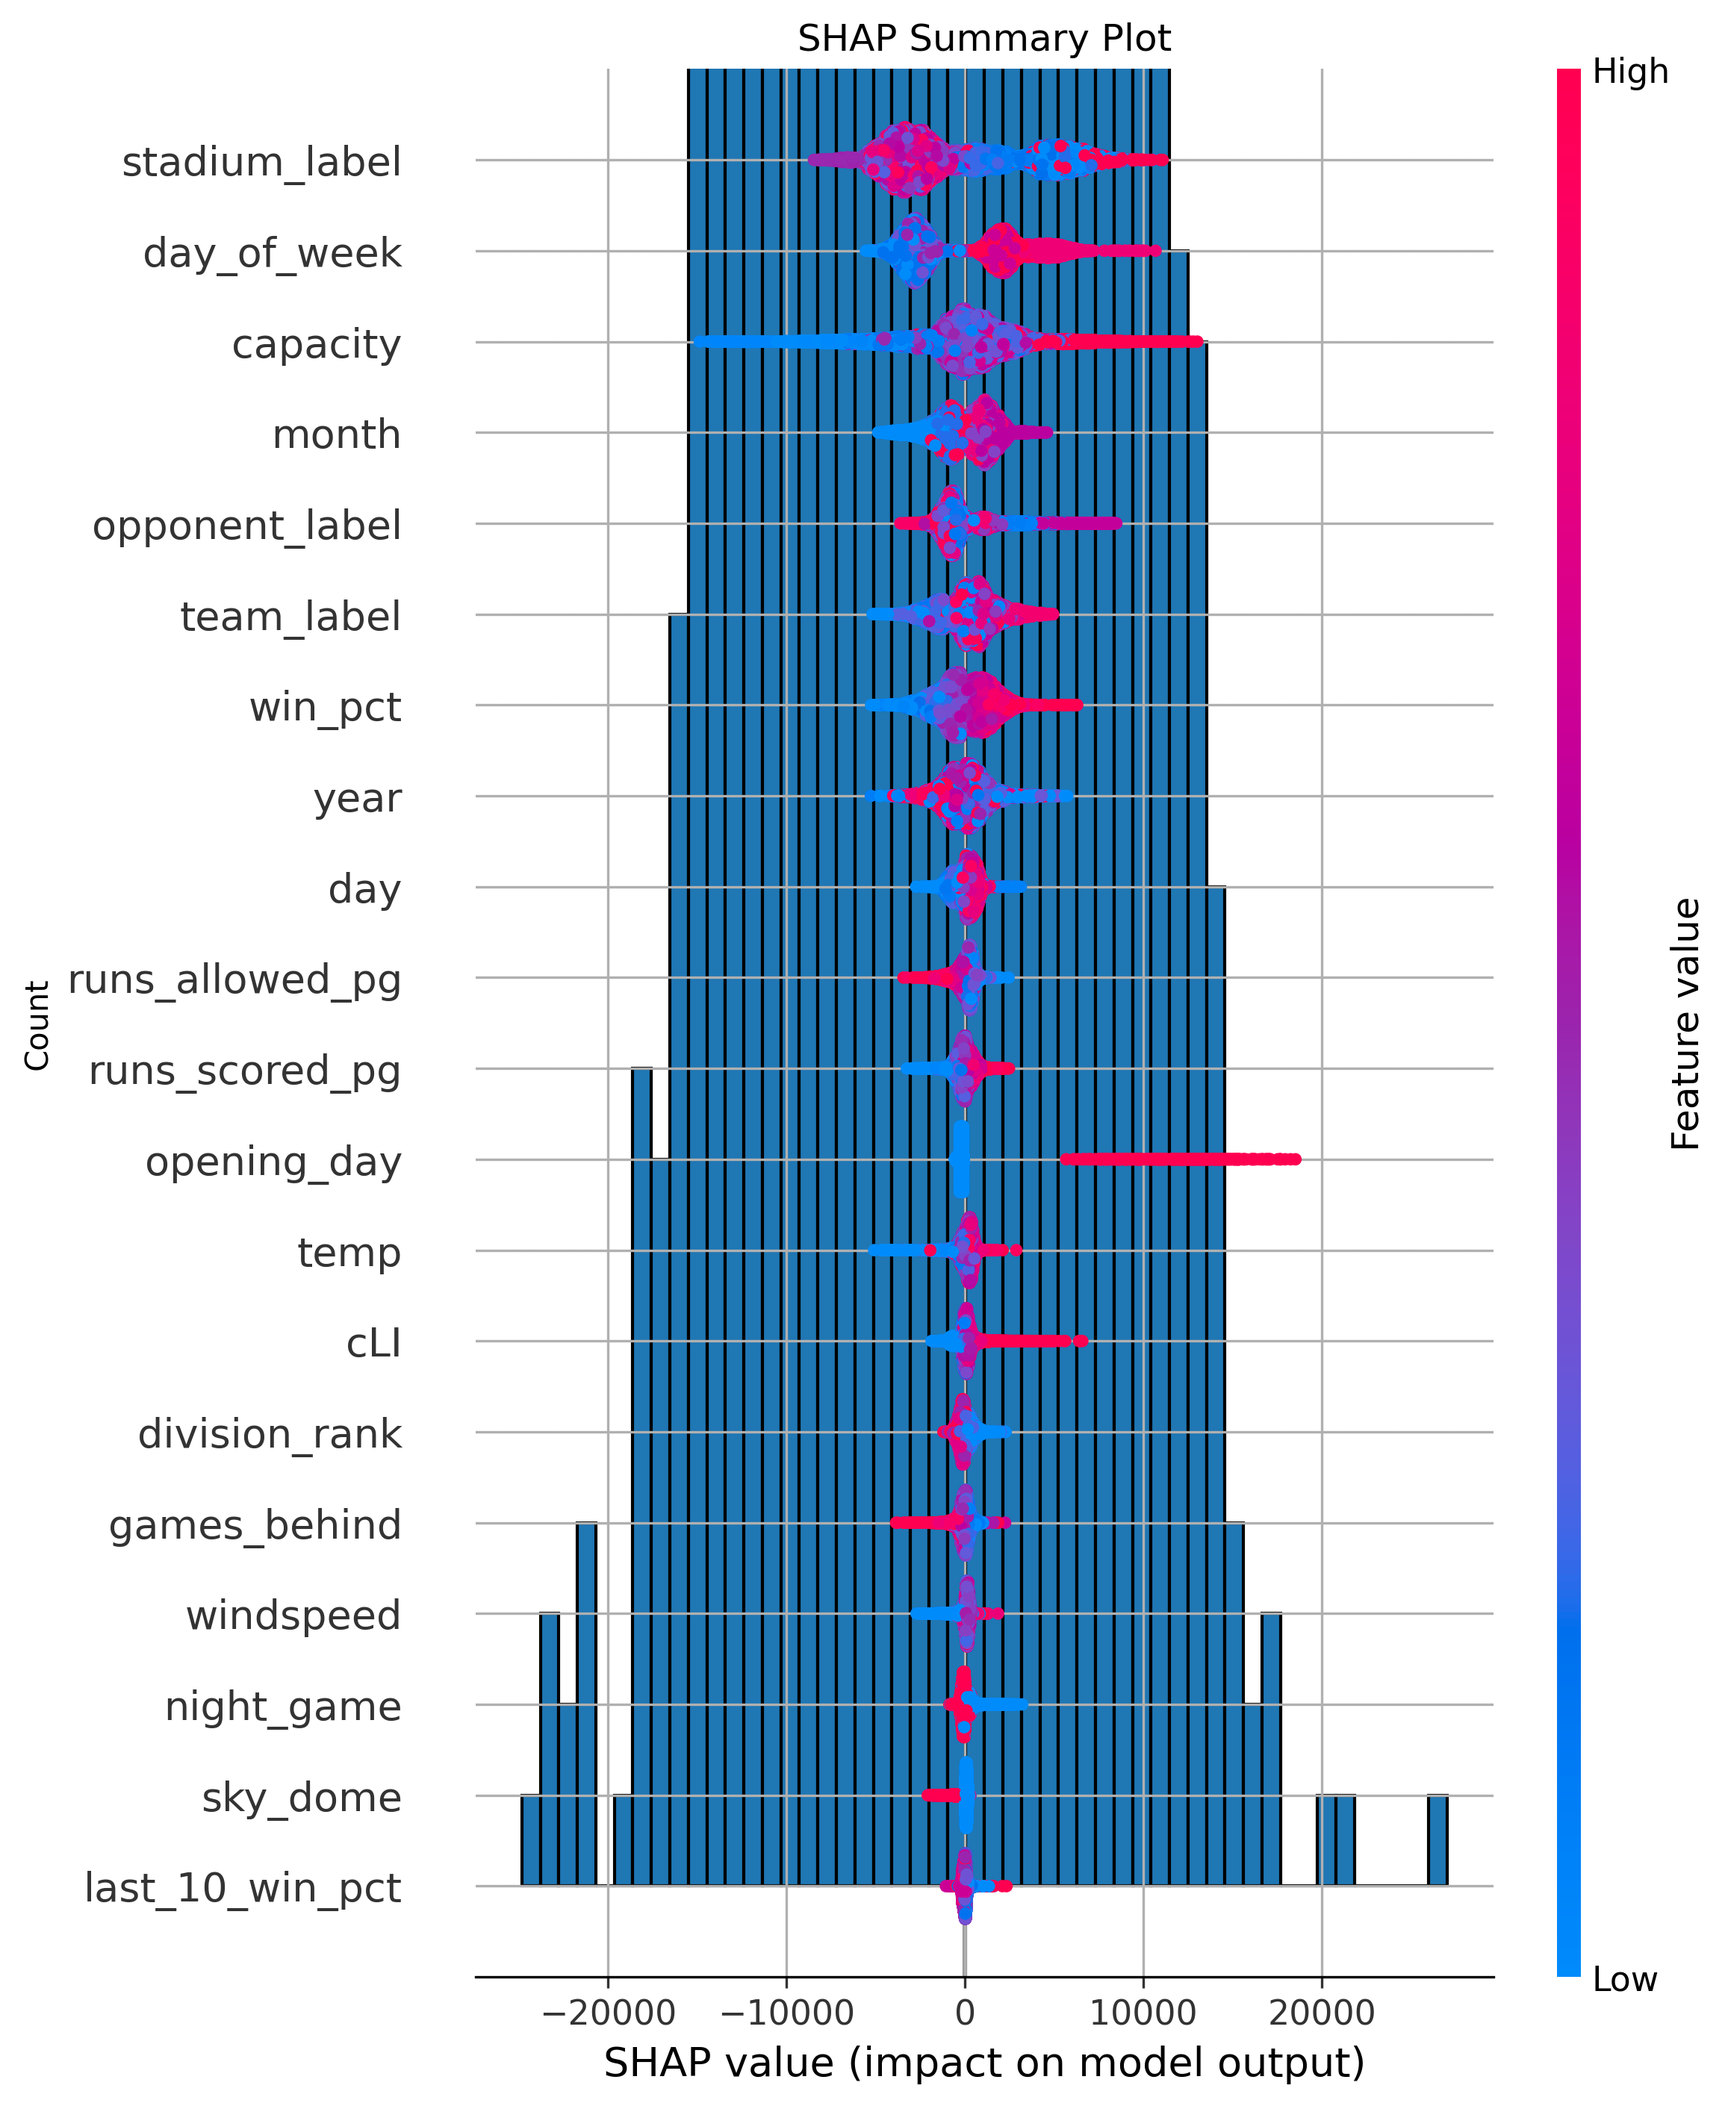
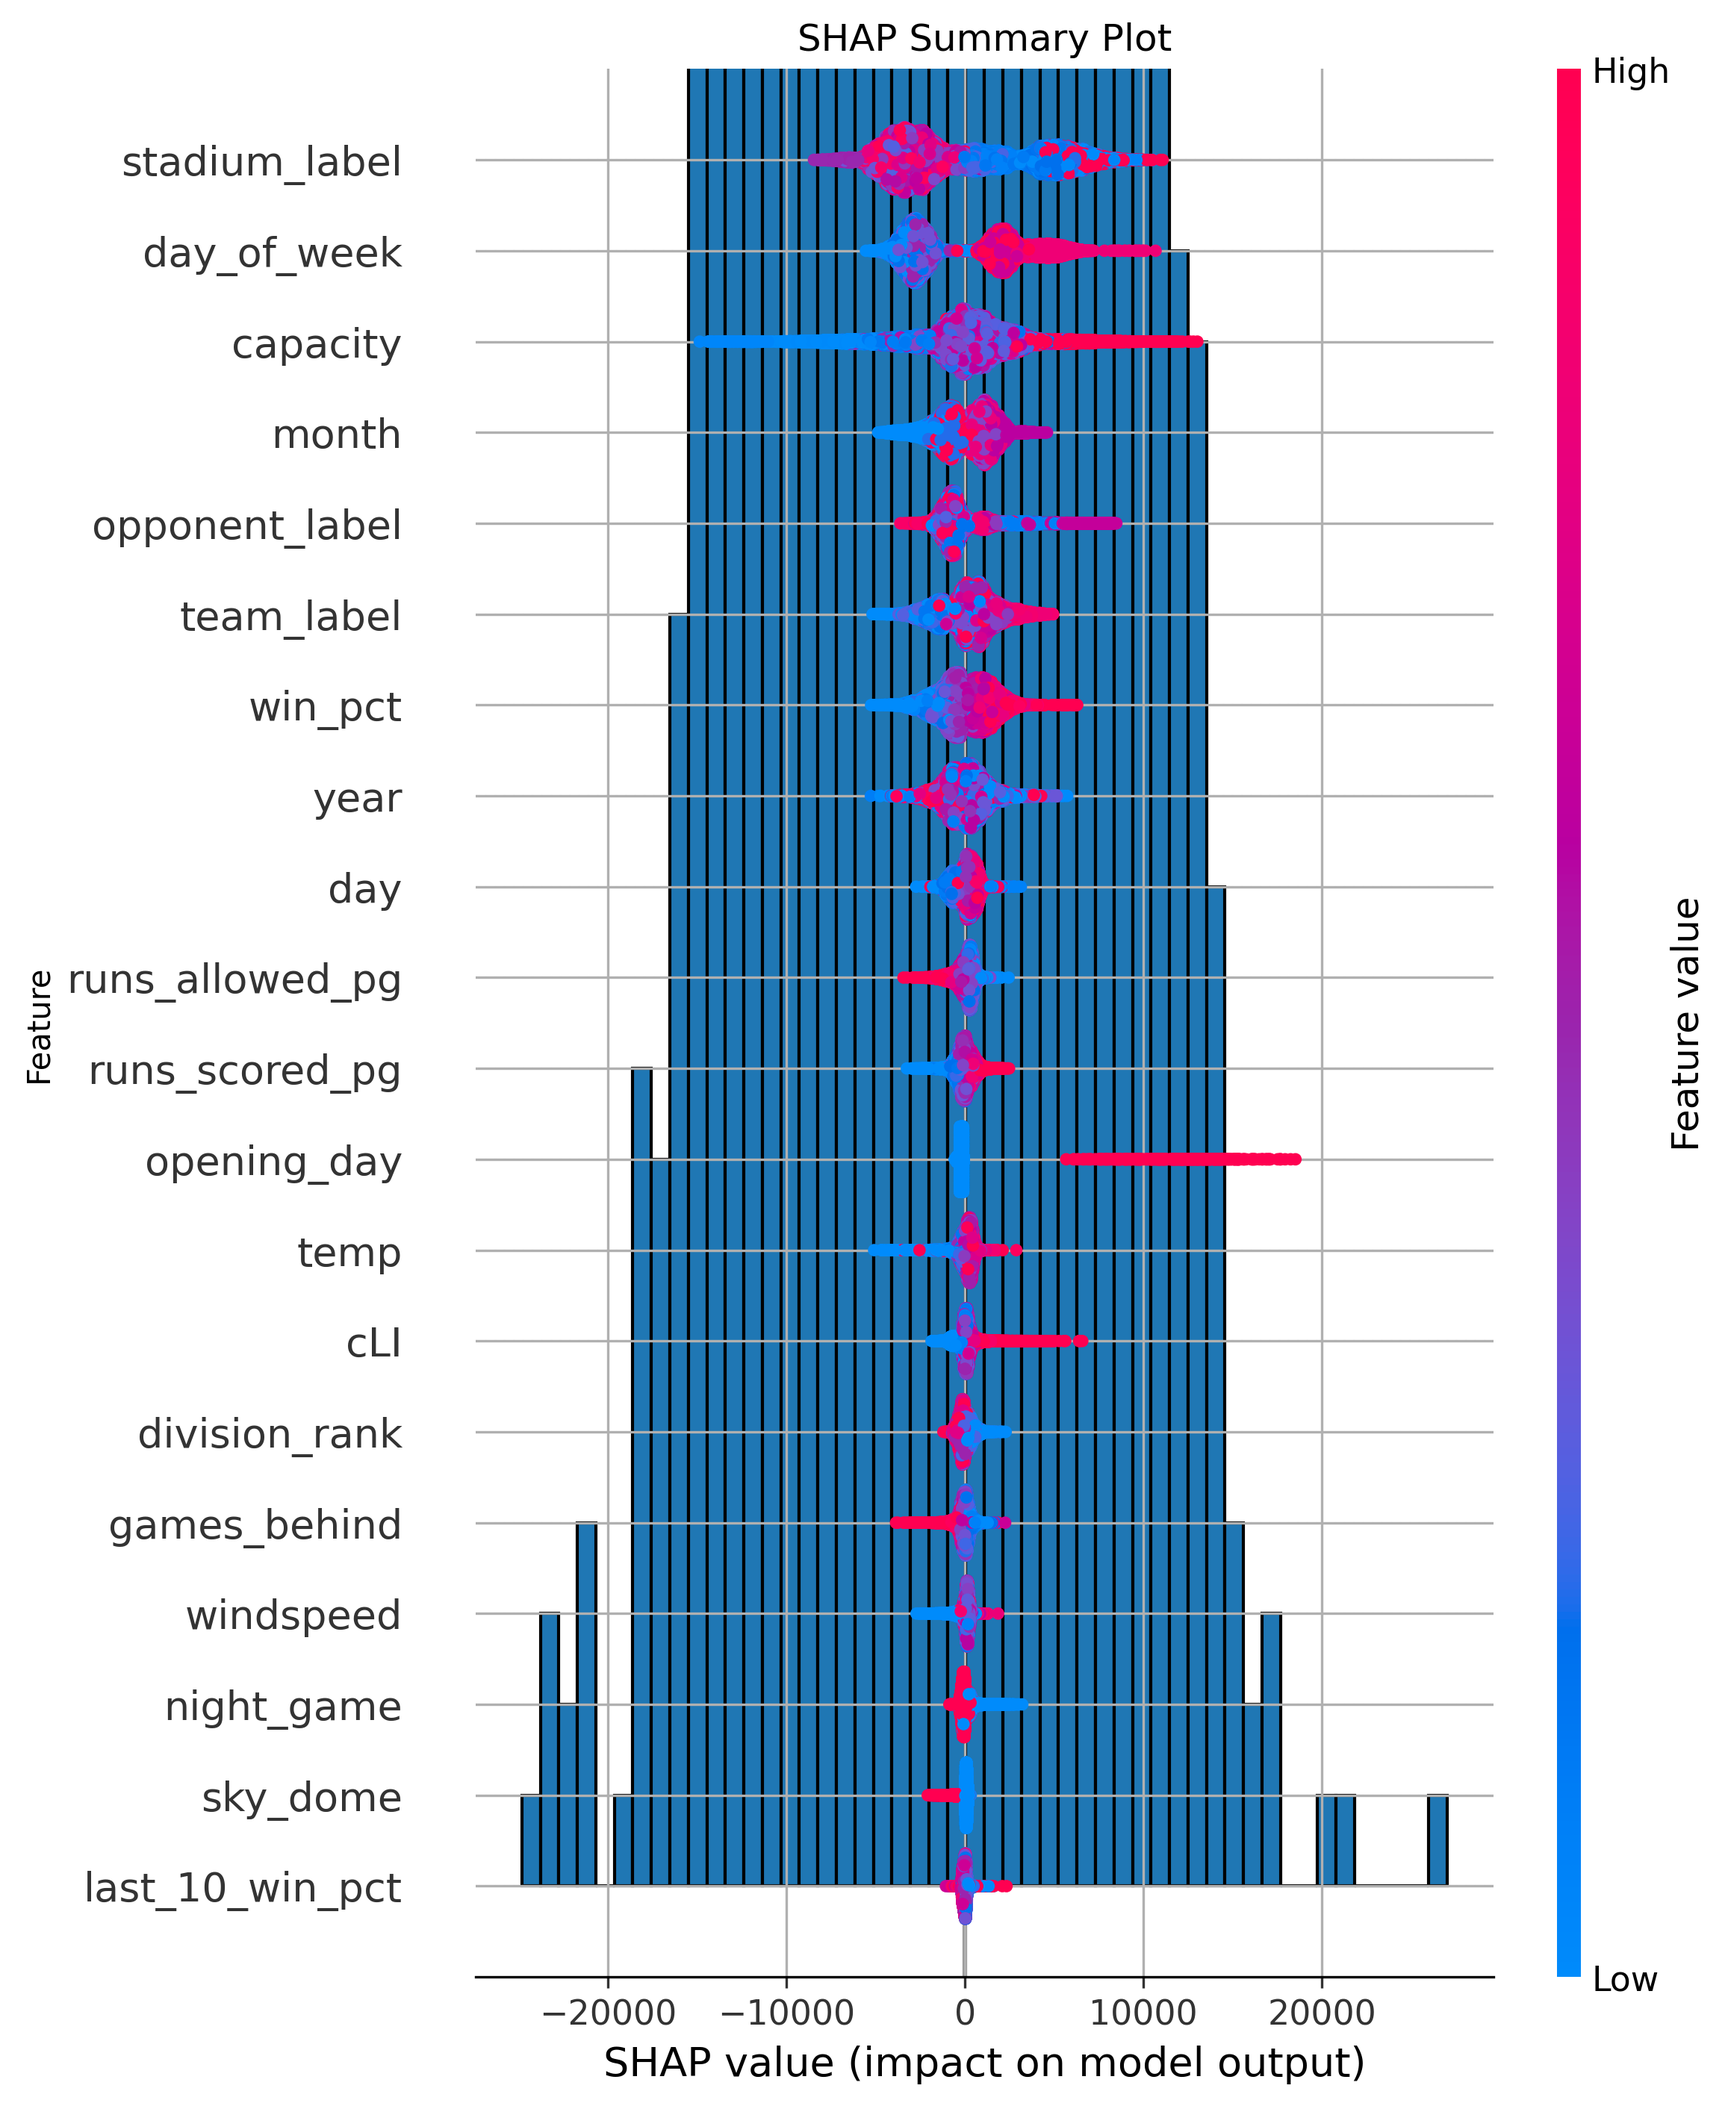
minor fix in SHAP plot

diff --git a/utils/evaluation.py b/utils/evaluation.py
@@ -100,6 +100,9 @@ def plot_shap_summary(model, X_train, model_name):
     explainer = shap.Explainer(model)
     shap_values = explainer(X_train)
     shap.summary_plot(shap_values, X_train, show=False)
-    plt.tight_layout()
+    plt.xlabel("SHAP value (impact on model output)")
+    plt.ylabel("Feature")
     plt.title("SHAP Summary Plot")
+    plt.tight_layout()
     plt.savefig(f"plots/features/{model_name}_shap_summary.png", dpi=300, bbox_inches="tight")
+    plt.close('all')
